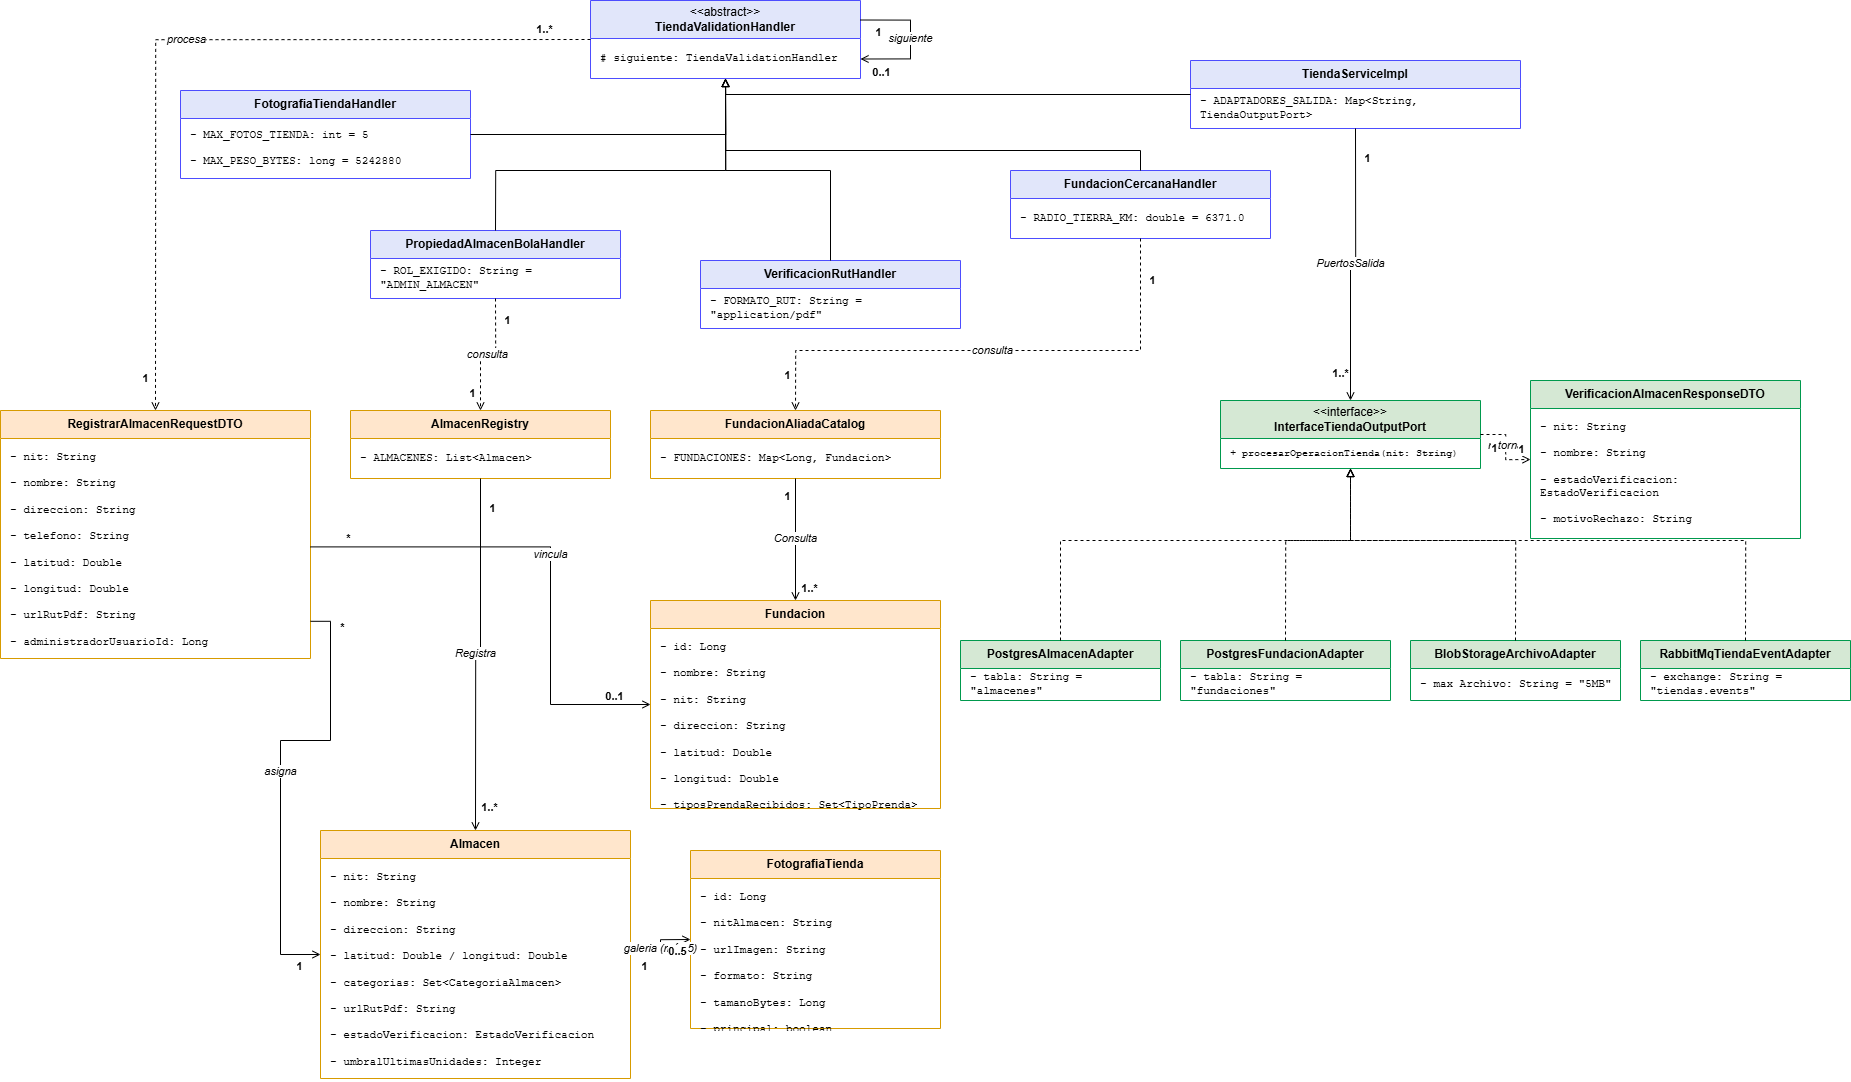
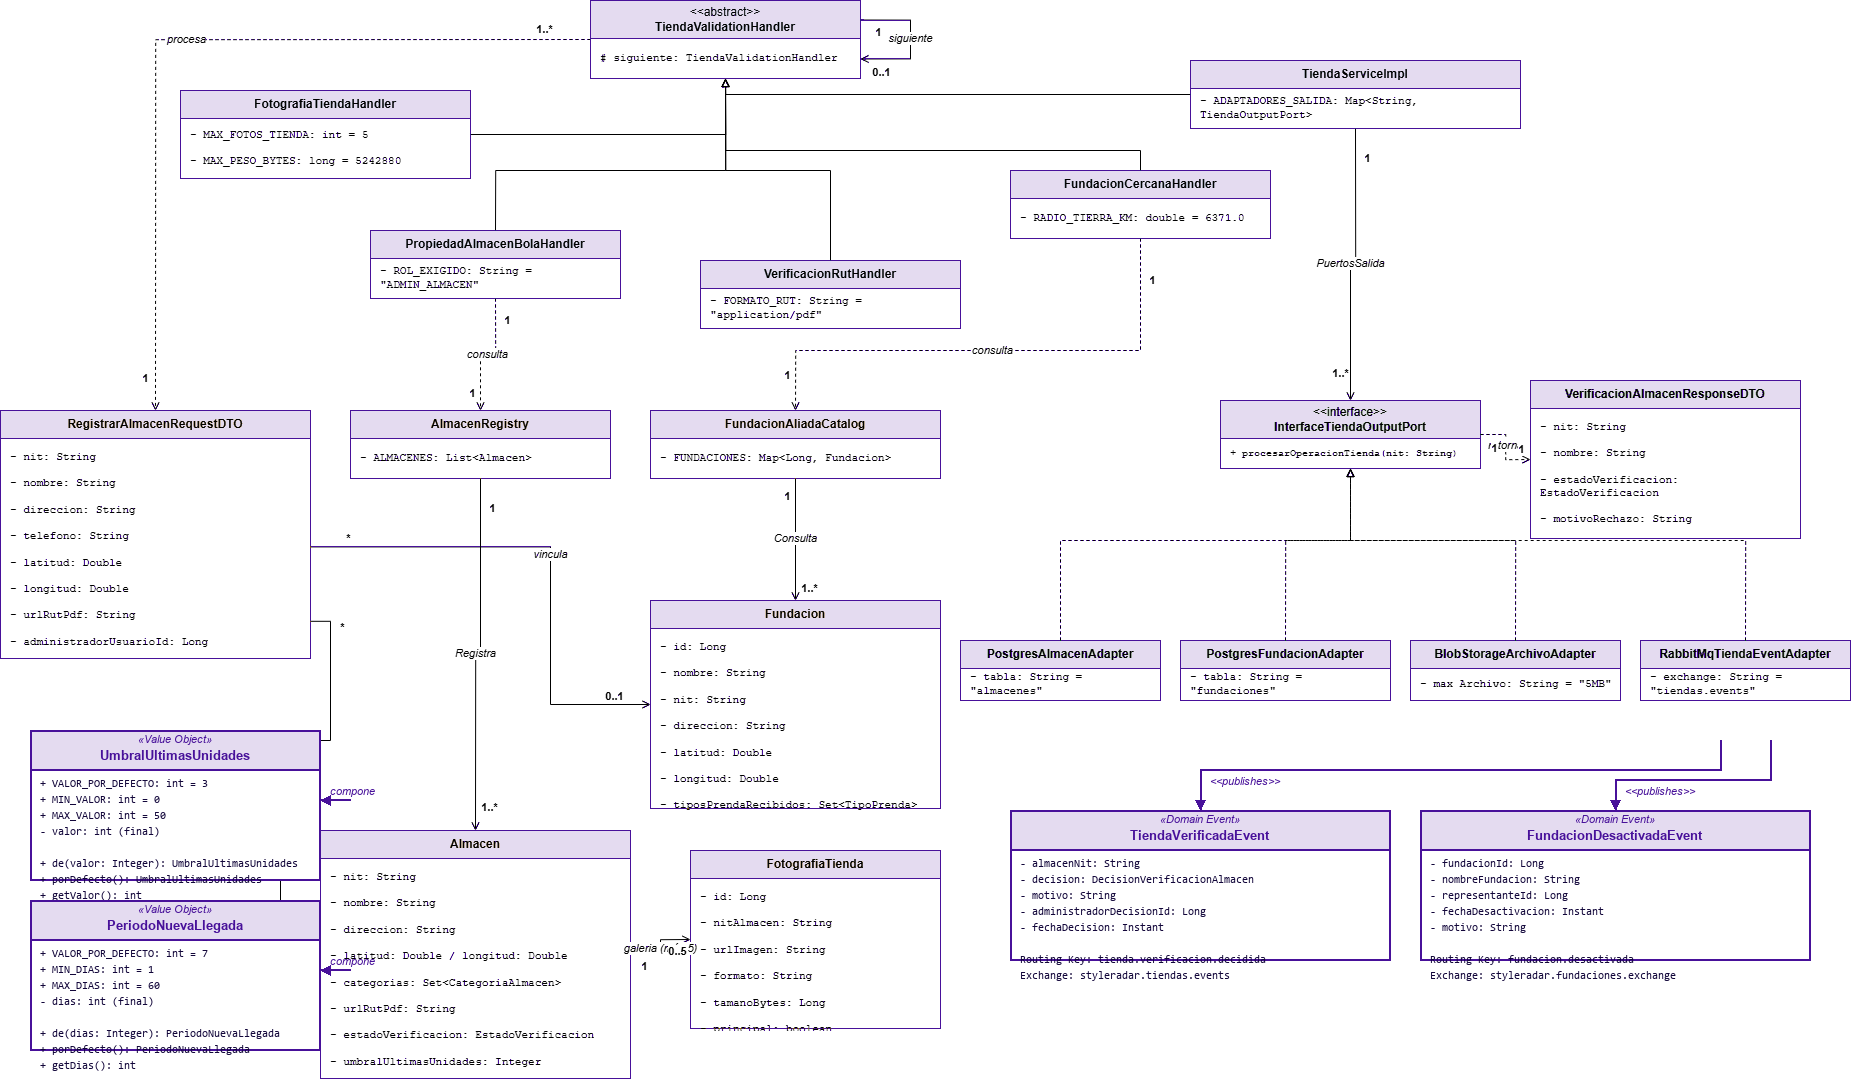
docs(uml): actualizar DiagramaClases al sistema corporativo EstiloDiagramas y documentar dominio DDD completo

diff --git a/README.md b/README.md
@@ -205,39 +205,79 @@ flowchart TD
 
 <div align="center">
   <img src="docs/uml/DiagramaClases.png" width="95%" alt="Diagrama de Clases ms-tiendas" /><br />
-  <sub>Figura 7.1: Diagrama de clases del núcleo de dominio puro para ms-tiendas (Draw.io editable en <a href="docs/uml/DiagramaClases.drawio"><code>docs/uml/DiagramaClases.drawio</code></a>).</sub>
+  <sub>Figura 7.1: Diagrama de clases del núcleo de dominio puro para ms-tiendas bajo el estándar corporativo <code>EstiloDiagramas.xml</code> (Draw.io editable en <a href="docs/uml/DiagramaClases.drawio"><code>docs/uml/DiagramaClases.drawio</code></a>).</sub>
 </div>
 
 ##### Justificación de Diseño y Principios Arquitecturales
-El diagrama de clases de `ms-tiendas` modela las entidades comerciales, los horarios operativos, las coordenadas espaciales y el ciclo de vida de moderación bajo Domain-Driven Design:
-- **Encapsulación de Reglas Comerciales Complejas**: La verificación de solapamiento de horarios de atención y el cálculo trigonométrico de distancias geográficas son tratados como responsabilidades intrínsecas de dominio puro (0% dependencias de librerías geoespaciales externas o Spring).
-- **Inmutabilidad de Coordenadas y NIT**: Los atributos tributarios y espaciales se aíslan en Value Objects inmutables (`Nit`, `CoordenadaGeografica`, `HorarioDia`), asegurando que ninguna latitud/longitud o formato de NIT inválido pueda ser construido o procesado.
-- **Auditoría Legal de Moderación**: El historial de decisiones de aprobación y rechazo de tiendas (`HistorialModeracionTienda`) forma parte del modelo conceptual de dominio para garantizar trazabilidad inalterable de cada dictamen de verificación.
+El diagrama de clases de `ms-tiendas` modela de forma integral el núcleo de negocio bajo **Domain-Driven Design (DDD)** y **Arquitectura Hexagonal (Puertos y Adaptadores)**, complementado con patrones de comportamiento como **Chain of Responsibility**:
+- **Dominio Puro (0% Spring / JPA)**: Las entidades y agregados encapsulan todas las reglas de negocio e invariantes críticas (validación de personería jurídica, límites de fotos, cálculo Haversine de radio 6.371 km y transiciones de estados de verificación) sin anotaciones de persistencia ni acoplamiento a frameworks.
+- **Cadena de Responsabilidad (Chain of Responsibility)**: La validación multi-etapa de comercios (`TiendaValidationHandler`) delega de forma desacoplada la validación de fotografías (SR-RF-74), control de acceso y propiedad BOLA/IDOR (SR-RNF-01), verificación tributaria del RUT (SR-RF-62) y asociación de fundaciones cercanas (SR-RF-43, SR-RF-63).
+- **Inmutabilidad y Robustez en Value Objects**: Atributos críticos del negocio como umbrales de stock, días de nueva llegada, coordenadas geográficas y NIT están blindados en Value Objects inmutables con validación en tiempo de construcción.
+- **Desacoplamiento Asíncrono por Eventos**: Las transiciones de ciclo de vida (desactivación de fundaciones y aprobación/rechazo de tiendas) publican eventos de dominio formalmente estructurados hacia RabbitMQ.
 
-##### Explicación Detallada de los Elementos
-1. **Agregado Raíz `Tienda`**:
-   - `id`: Identificador único UUID del comercio.
-   - `nit`: Value Object que valida la estructura tributaria del NIT y su dígito de verificación.
-   - `razonSocial`, `nombreComercial`, `descripcion`: Datos legales y de marca.
-   - `telefono`, `emailContacto`: Medios de comunicación corporativos.
-   - `estado`: Estado de verificación operativa (`PENDIENTE_APROBACION`, `APROBADA`, `RECHAZADA`, `SUSPENDIDA`).
-   - `horarios`: Colección de entidades `HorarioAtencion`.
-   - `ubicacion`: Entidad `UbicacionGeografica`.
-   - Métodos de negocio: `registrarHorario()`, `eliminarHorario()`, `actualizarUbicacion()`, `solicitarRevision()`, `aprobar()`, `rechazar()`.
-2. **Entidad `HorarioAtencion`**:
-   - Representa los turnos de apertura y cierre por día de la semana.
-   - Atributos: `diaSemana` (enumeración: `LUNES` a `DOMINGO`), `horaApertura`, `horaCierre`, `esFestivo`.
-   - Invariantes: `horaApertura` debe ser estrictamente anterior a `horaCierre`.
-3. **Entidad `UbicacionGeografica`**:
-   - Modela el punto físico del local comercial.
-   - Atributos: `coordenada` (Value Object con `latitud` y `longitud` validadas en rango de -90 a 90 y -180 a 180), `direccion`, `ciudad`, `zonaComercial`.
-4. **Validadores y Calculadores de Dominio**:
-   - `TiendaValidator`: Valida completitud de datos comerciales, longitud de nombres y consistencia de NIT.
-   - `HorarioSolapamientoValidator`: Verifica que no existan traslapes o colisiones de franjas horarias dentro de un mismo día.
-   - `DistanciaHaversineCalculator`: Implementa la fórmula trigonométrica del semiverseno (Haversine) sobre la esfera terrestre para calcular distancias en kilómetros entre dos coordenadas sin dependencias de base de datos ni librerías externas.
-5. **Puertos de Entrada y Salida**:
-   - Puertos de Entrada: `GestionarTiendaUseCase`, `BuscarTiendasCercanasUseCase`, `ModerarTiendaUseCase`.
-   - Puertos de Salida: `TiendaRepositoryPort`, `UbicacionGeograficaRepositoryPort`, `HistorialModeracionRepositoryPort`, `EventPublisherPort`.
+##### Explicación Detallada de los Elementos del Dominio
+
+###### 1. Agregados (Aggregate Roots)
+- **`Almacen` (`<<AggregateRoot>>`)**:
+  - *Atributos clave*: `nit` (Value Object), `nombreComercial`, `descripcion`, `telefono`, `correoContacto`, `latitud`, `longitud`, `reputacion`, `categorias` (`Set<CategoriaAlmacen>`), `estadoVerificacion` (`EstadoVerificacionAlmacen`), `urlRutPdf`, `administradorDecisionId`, `motivoVerificacion`, `umbralUltimasUnidades`, `diasNuevaLlegada`, `fotos` (`List<FotografiaTienda>`).
+  - *Invariantes y Reglas de Negocio*:
+    - Límite estricto de máximo 6 fotografías de vitrina (`MAXIMO_FOTOGRAFIAS = 6`).
+    - Solo puede aprobarse un comercio si tiene adjunto el documento RUT en PDF (`RutRequeridoParaAprobacionException`).
+    - El rechazo exige un motivo explicativo no vacío (`ReglaDeNegocioException`).
+    - No se permite decidir un almacén previamente aprobado o rechazado (`AlmacenYaDecididoException`).
+  - *Métodos de negocio*: `configurarUmbralUltimasUnidades(int)`, `configurarDiasNuevaLlegada(int)`, `configurarCatalogo(int, int)`, `decidirVerificacion(decision, motivo, adminId, fecha)`, `solicitarRevision()`, `agregarFotografia(url, fecha)`, `removerFotografia(id)`.
+- **`Fundacion` (`<<AggregateRoot>>`)**:
+  - *Atributos clave*: `id`, `nombre`, `descripcion`, `direccion`, `telefono`, `email`, `latitud`, `longitud`, `categoriasAceptadas` (`Set<TipoPrenda>`), `representanteId`, `urlCertificadoPersoneriaJuridica`, `activa` (`boolean`), `fechaRegistro`.
+  - *Invariantes y Reglas de Negocio*:
+    - Coordenadas geográficas obligatorias en rangos válidos (-90 a 90 y -180 a 180).
+    - Exige al menos una categoría de prenda de donación aceptada.
+    - Exige certificado de personería jurídica en PDF para habilitar la alianza institucional.
+    - Desactivación lógica protegida que impide doble desactivación (`FundacionYaDesactivadaException`).
+  - *Métodos de negocio*: `validarDatosObligatoriosRegistro()`, `validarDatosEdicion()`, `actualizarDatosInstitucionales(cambios)`, `desactivar()`.
+
+###### 2. Entidades
+- **`FotografiaTienda` (`<<Entity>>`)**:
+  - Modela cada fotografía de vitrina o fachada asociada al almacén.
+  - *Atributos*: `id` (Long), `almacenNit` (String), `url` (String en Azure Blob Storage), `orden` (int), `portada` (boolean), `fechaRegistro` (Instant).
+  - *Regla*: Solo una fotografía puede actuar como portada activa simultáneamente.
+- **`HorarioAtencion` & `UbicacionGeografica`**:
+  - Entidades de soporte para turnos de atención comercial y geolocalización espacial en cuadrantes urbanos de Bogotá.
+
+###### 3. Value Objects (VOs) & Enumeraciones
+- **`UmbralUltimasUnidades` (`<<Value Object>>`)**:
+  - Inmutable, encapsula el umbral de alerta de inventario bajo (`[0..50]`, default: `3`). Lanza `UmbralInvalidoException` si se infringe el rango.
+- **`PeriodoNuevaLlegada` (`<<Value Object>>`)**:
+  - Inmutable, delimita la ventana de días en que un producto conserva la etiqueta "Nueva Colección" (`[1..60]` días, default: `7`). Lanza `PeriodoInvalidoException`.
+- **`Nit` & `Coordenadas`**:
+  - Validación de sintaxis DIAN con dígito de verificación y cálculo esférico Haversine ($R = 6.371\text{ km}$).
+- **Enumeraciones de Dominio**:
+  - `EstadoVerificacionAlmacen`: `PENDIENTE`, `APROBADO`, `RECHAZADO`.
+  - `DecisionVerificacionAlmacen`: `APROBADO`, `RECHAZADO`.
+  - `CategoriaAlmacen`: `CASUAL`, `FORMAL`, `DEPORTIVA`, `VINTAGE`, `ACCESORIOS`.
+  - `TipoPrenda`: `SUPERIOR`, `INFERIOR`, `CALZADO`, `VESTIDO`, `ACCESORIO`.
+
+###### 4. Eventos de Dominio (Domain Events)
+- **`FundacionDesactivadaEvent` (`<<Domain Event>>`)**:
+  - Publicado hacia el exchange `styleradar.fundaciones.exchange` con routing key `fundacion.desactivada` al ejecutar `desactivar()`. Notifica a `ms-segunda-vida-donaciones` (:8093) para reasignar donaciones huérfanas.
+- **`TiendaVerificadaEvent` (`<<Domain Event>>`)**:
+  - Publicado en `styleradar.tiendas.events` con routing key `tienda.verificacion.decidida` tras la decisión de un administrador, alertando a `ms-catalogo` y `ms-notificaciones`.
+- **`TiendaConfiguracionActualizadaEvent` (`<<Domain Event>>`)**:
+  - Publicado con routing key `tienda.configuracion.actualizada` para sincronizar parámetros con `ms-catalogo` e `ms-inventario`.
+
+###### 5. Cadena de Responsabilidad (Chain of Responsibility)
+- **`TiendaValidationHandler` (`<<abstract>>`)**: Define el contrato `# siguiente: TiendaValidationHandler` y `+ procesarValidacion()`.
+  - `FotografiaTiendaHandler`: Valida cuota de fotos ($\le 5$) y peso multipart ($\le 5\text{ MB}$).
+  - `PropiedadAlmacenBolaHandler`: Mitiga BOLA/IDOR contrastando `usuarioId` del JWT contra el NIT de la tienda.
+  - `VerificacionRutHandler`: Valida tipo MIME `application/pdf` y tamaño ($\le 6\text{ MB}$).
+  - `FundacionCercanaHandler`: Ejecuta cálculo Haversine de proximidad geográfica.
+  - `TiendaServiceImpl`: Implementación orquestadora del caso de uso.
+
+###### 6. Puertos de Salida y Adaptadores (Arquitectura Hexagonal)
+- **`InterfaceTiendaOutputPort` (`<<interface>>`)**: Contrato de salida implementado por:
+  - `PostgresAlmacenAdapter`: Persistencia relacional de almacenes, categorías y administradores.
+  - `PostgresFundacionAdapter`: Persistencia relacional de fundaciones y prendas aceptadas.
+  - `BlobStorageArchivoAdapter`: Carga binaria a Azure Blob Storage con URLs HTTPS firmadas.
+  - `RabbitMqTiendaEventAdapter`: Publicación asíncrona a los exchanges corporativos de RabbitMQ.
 
 ---
 
